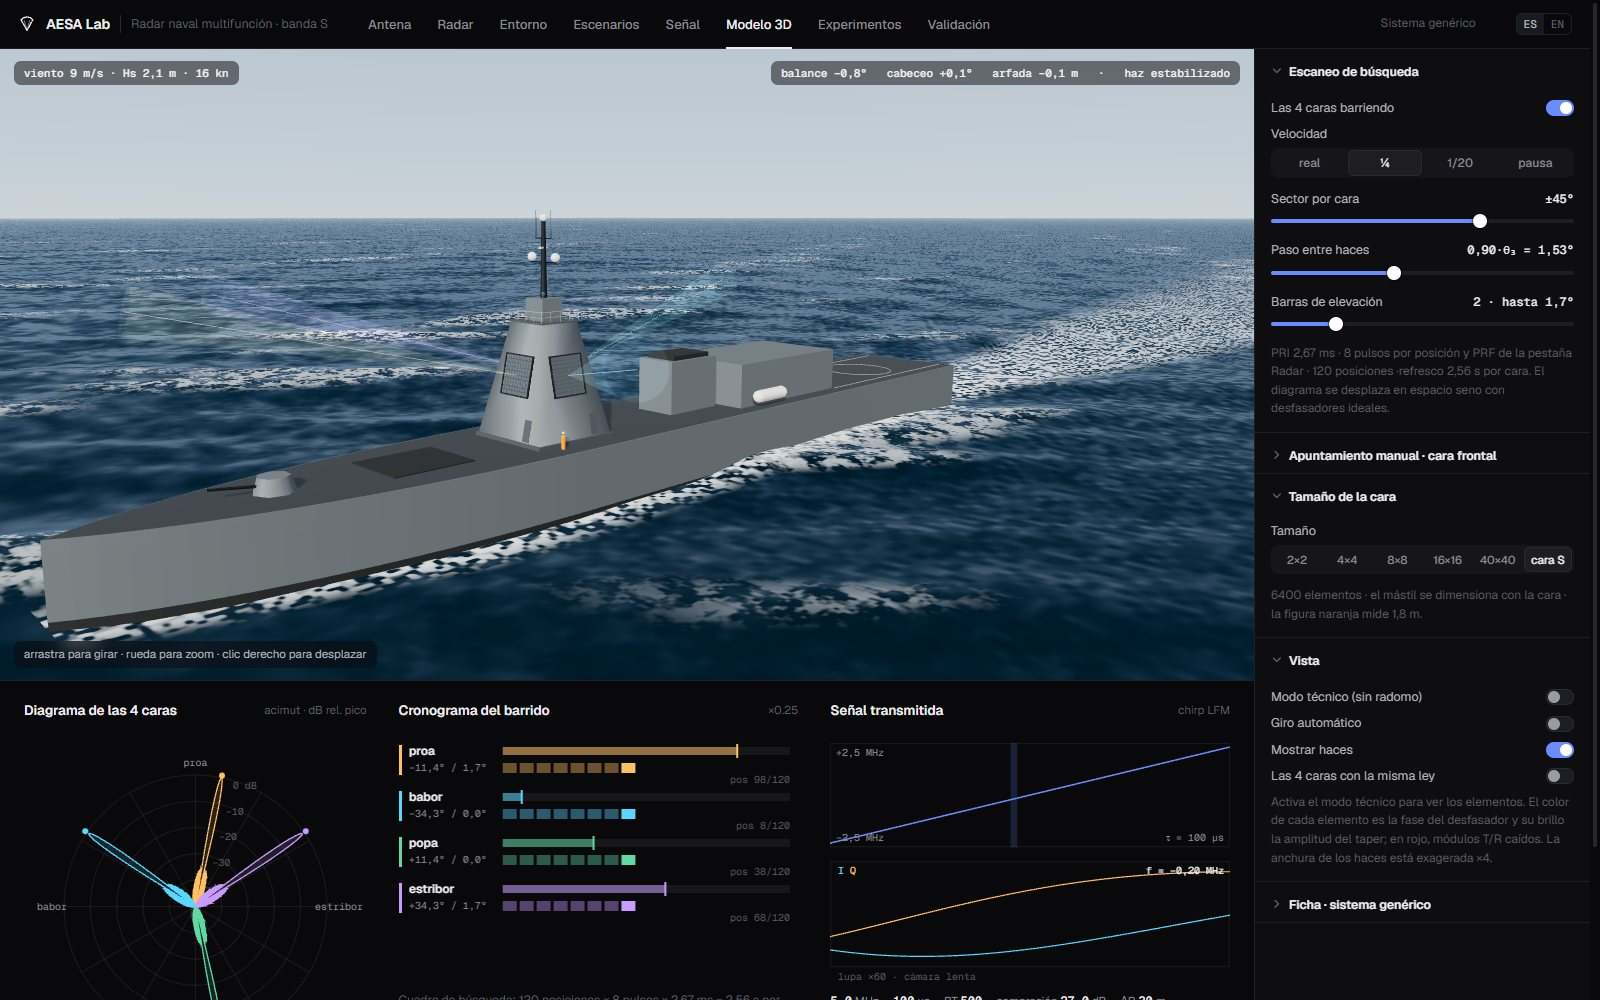
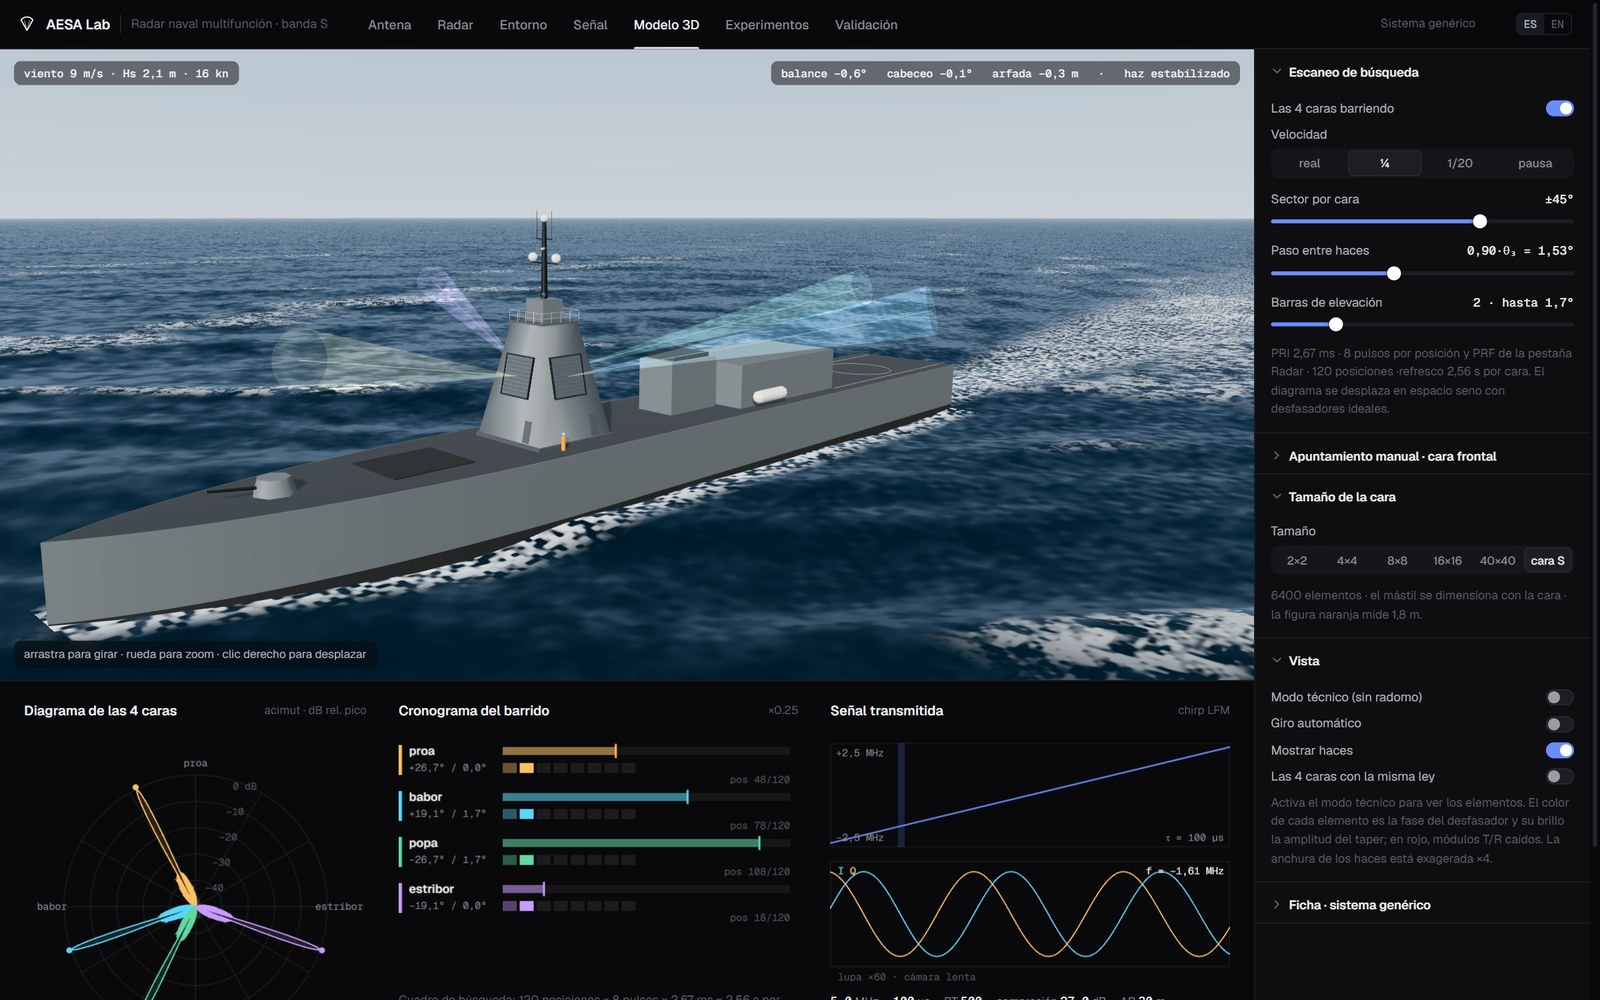
docs: live demo badge, fresh screenshots; ci: bump Pages actions
Screenshots no longer show the removed Scenarios tab. Actions move
off the deprecated Node 20 runtime.

diff --git a/README.md b/README.md
@@ -2,6 +2,7 @@
 
 **English** · [Español](README.es.md)
 
+[![Live demo](https://img.shields.io/badge/live%20demo-open-c8641e)](https://suntzuuet.github.io/aesa-lab-radar-naval/)
 ![MATLAB](https://img.shields.io/badge/MATLAB-R2026a-0076a8)
 ![TypeScript](https://img.shields.io/badge/TypeScript-React%20%2B%20Three.js-3178c6)
 ![Validation](https://img.shields.io/badge/MATLAB%20validation-75%2F75-2ea44f)
@@ -71,6 +72,8 @@ To test this, I reran the thesis's final experiment with the mutual impedances o
 ---
 
 ## 2 · The web simulator
+
+**Try it in the browser:** https://suntzuuet.github.io/aesa-lab-radar-naval/
 
 <table>
 <tr>
